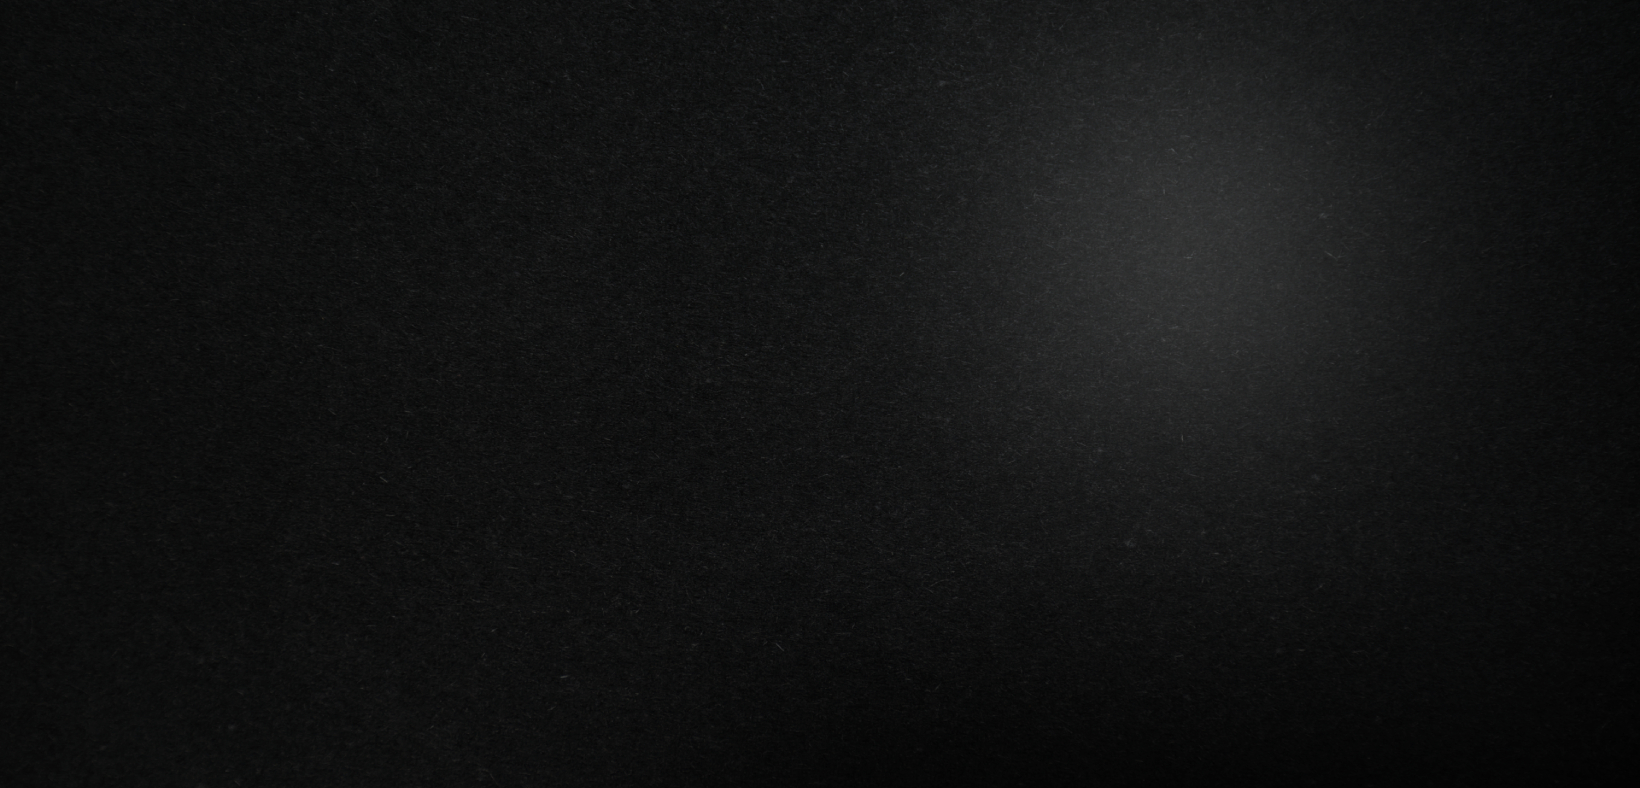
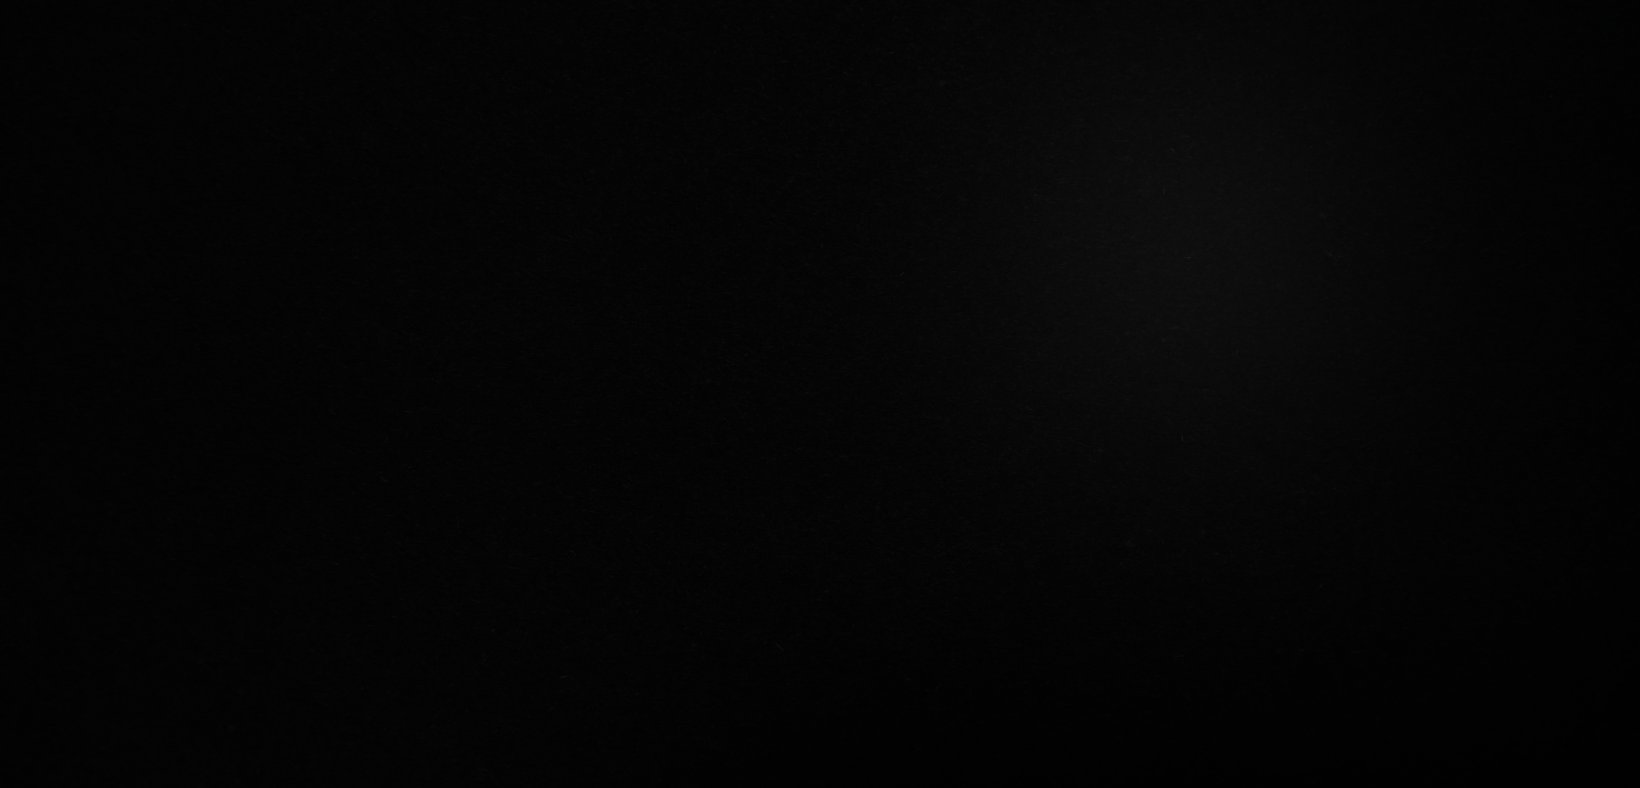
initial commit

Changed region(s): [[0.5287, 0.0, 0.8707, 0.6396]]

diff --git a/components/product-grid.jsx b/components/product-grid.jsx
@@ -1,40 +1,48 @@
 "use client";
 
+import { useState } from "react";
+
 export default function ProductGrid({ products, activeProduct, onSelect }) {
+  const [hoveredId, setHoveredId] = useState(null);
+
+  // --- Adjustable Settings ---
+  const ACTIVE_BG_COLOR = "#333333"; // Lighter background color when selected
+  const DEFAULT_BG_COLOR = "#1a1a1a"; // Default background color
+  const HOVER_ZOOM_SCALE = 1.15; // Image scale when hovered
+  // ---------------------------
+
   return (
     <div style={styles.grid}>
       {products.map((product) => {
         const isActive = product.id === activeProduct.id;
+        const isHovered = hoveredId === product.id;
 
         return (
           <div
             key={product.id}
+            onMouseEnter={() => setHoveredId(product.id)}
+            onMouseLeave={() => setHoveredId(null)}
             style={{
               ...styles.gridItem,
-              borderColor: isActive ? "#fbbf24" : "#262626",
+              backgroundColor: isActive ? ACTIVE_BG_COLOR : DEFAULT_BG_COLOR,
+              border: "1px solid #262626",
             }}
             onClick={() => onSelect(product)}
           >
-            <div
+            {/* product thumbnail */}
+            <img
+              src={product.media?.find((m) => m.type === "image")?.src || ""}
+              alt={`${product.name} thumbnail`}
               style={{
-                ...styles.gridItemContent,
-                backgroundColor: isActive ? "#3a3a3a" : "#2d2d2d",
+                width: "100%",
+                height: "100%",
+                objectFit: "contain",
+                padding: "8px",
+                opacity: isActive ? 1 : 0.6,
+                transform: isHovered ? `scale(${HOVER_ZOOM_SCALE})` : "scale(1)",
+                transition: "transform 0.4s cubic-bezier(0.25, 1, 0.5, 1), opacity 0.3s ease",
               }}
-            >
-              {/* product thumbnail */}
-              <img
-                src={product.media?.find((m) => m.type === "image")?.src || ""}
-                alt={`${product.name} thumbnail`}
-                style={{
-                  width: "100%",
-                  height: "100%",
-                  objectFit: "contain",
-                  padding: "4px",
-                  opacity: isActive ? 1 : 0.6,
-                  transition: "opacity 0.3s ease",
-                }}
-              />
-            </div>
+            />
           </div>
         );
       })}
@@ -50,23 +58,13 @@ const styles = {
   },
   gridItem: {
     aspectRatio: "1 / 1",
-    backgroundColor: "#1a1a1a",
     borderRadius: "4px",
-    border: "1px solid #262626",
     cursor: "pointer",
     display: "flex",
     alignItems: "center",
     justifyContent: "center",
-    transition: "border-color 0.3s ease",
-  },
-  gridItemContent: {
-    width: "75%",
-    height: "75%",
-    backgroundColor: "#2d2d2d",
-    borderRadius: "4px",
-    display: "flex",
-    alignItems: "center",
-    justifyContent: "center",
+    transition: "background-color 0.3s ease",
+    overflow: "hidden",
   },
   label: {
     fontSize: "0.75rem",

diff --git a/app/page.jsx b/app/page.jsx
@@ -1205,7 +1205,7 @@ export default function Home() {
           </div>
         </Scene>
 
-        <ScrollScene background="/images/background.jpg" height="140vh">
+        <ScrollScene background="/images/backgrounds.jpg" height="140vh">
           <div ref={shopTargetRef} style={styles.siteSection}>
             <div style={styles.container}>
               {/* Left - Description */}
